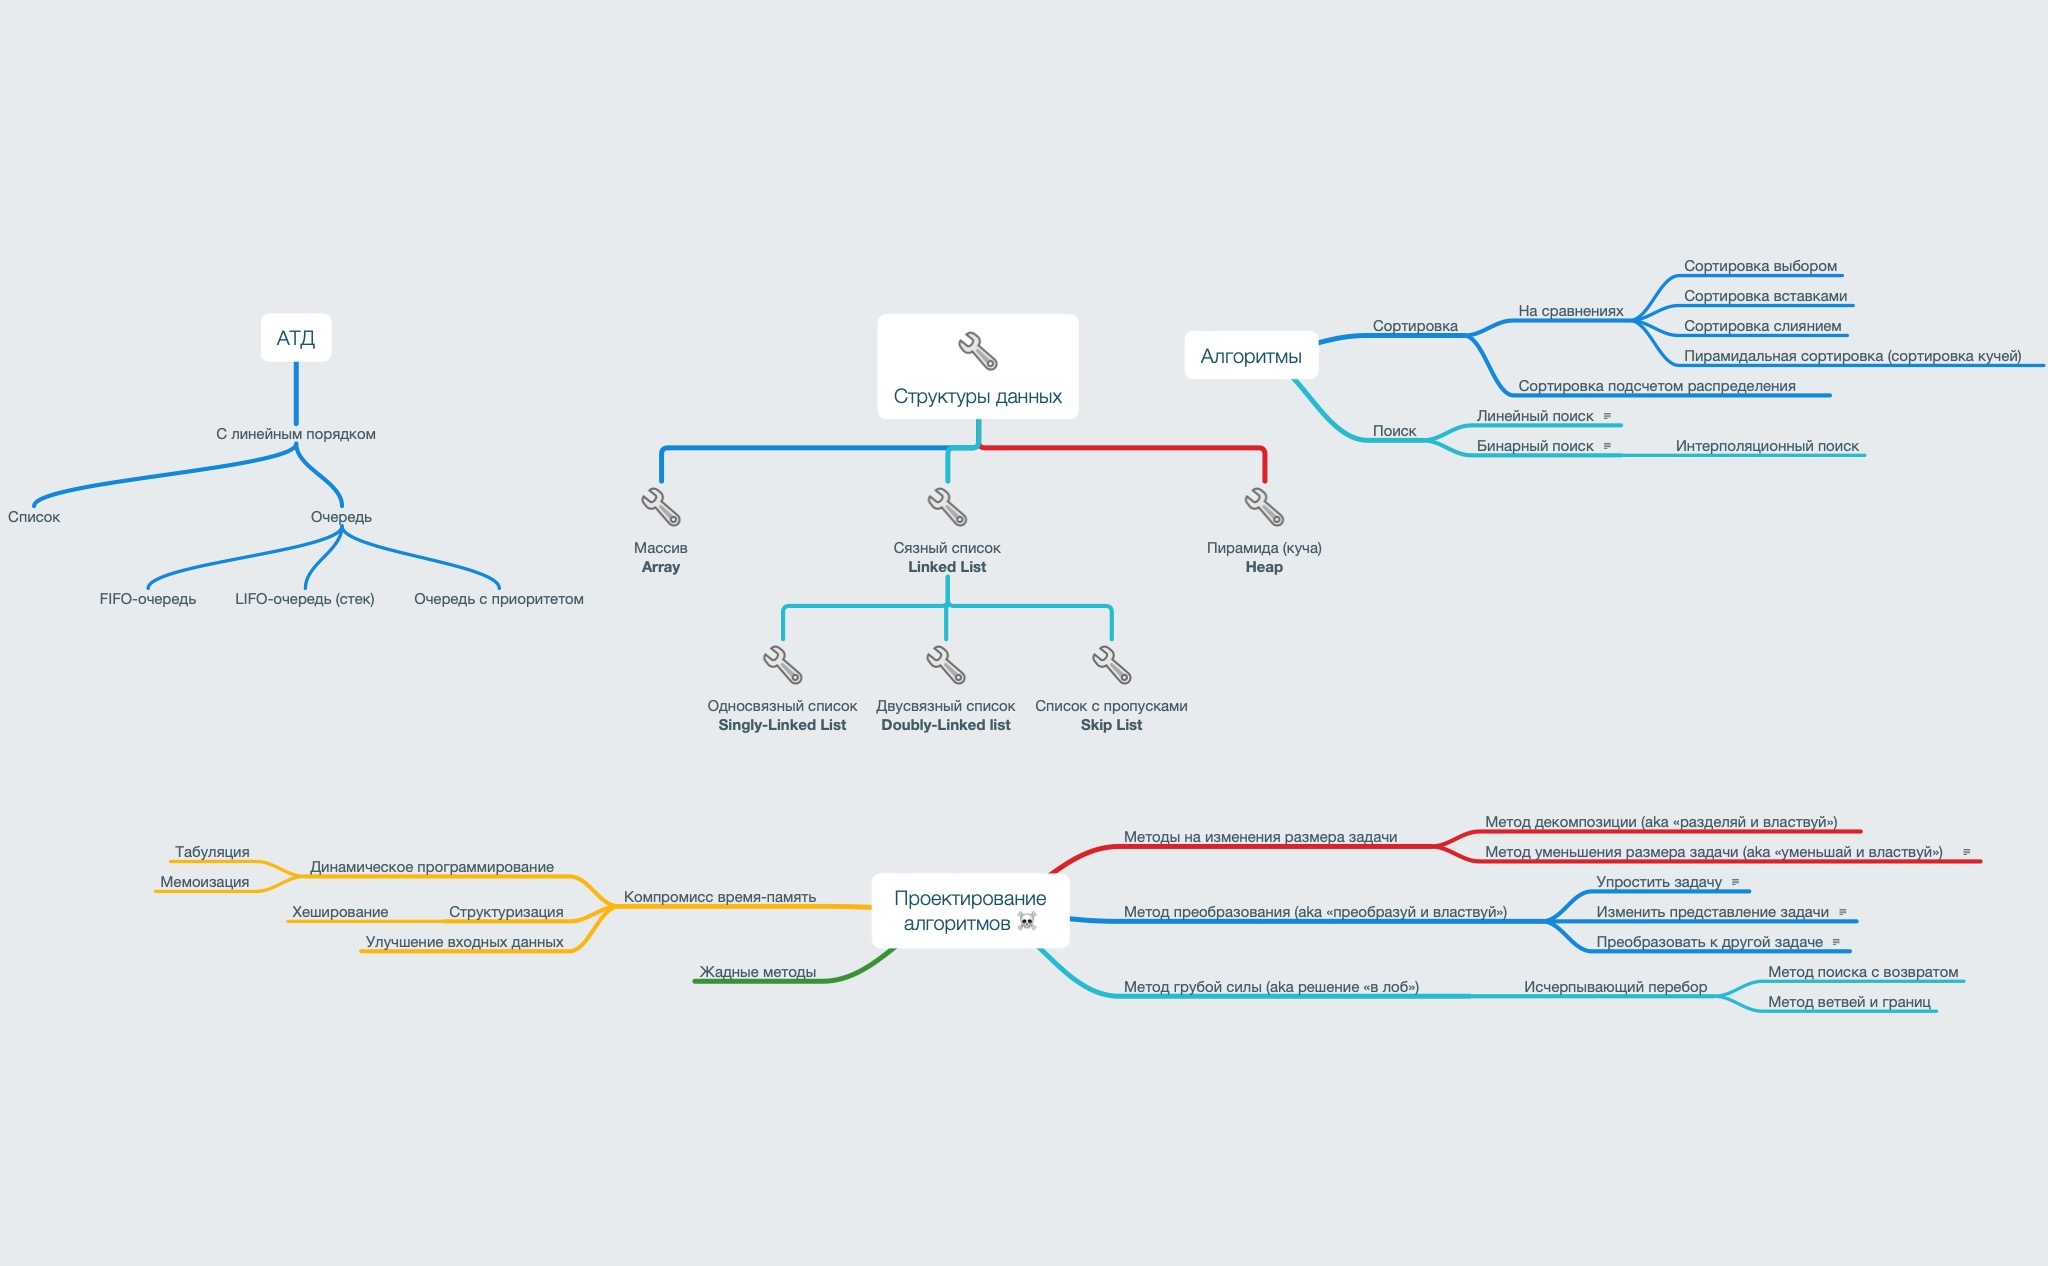
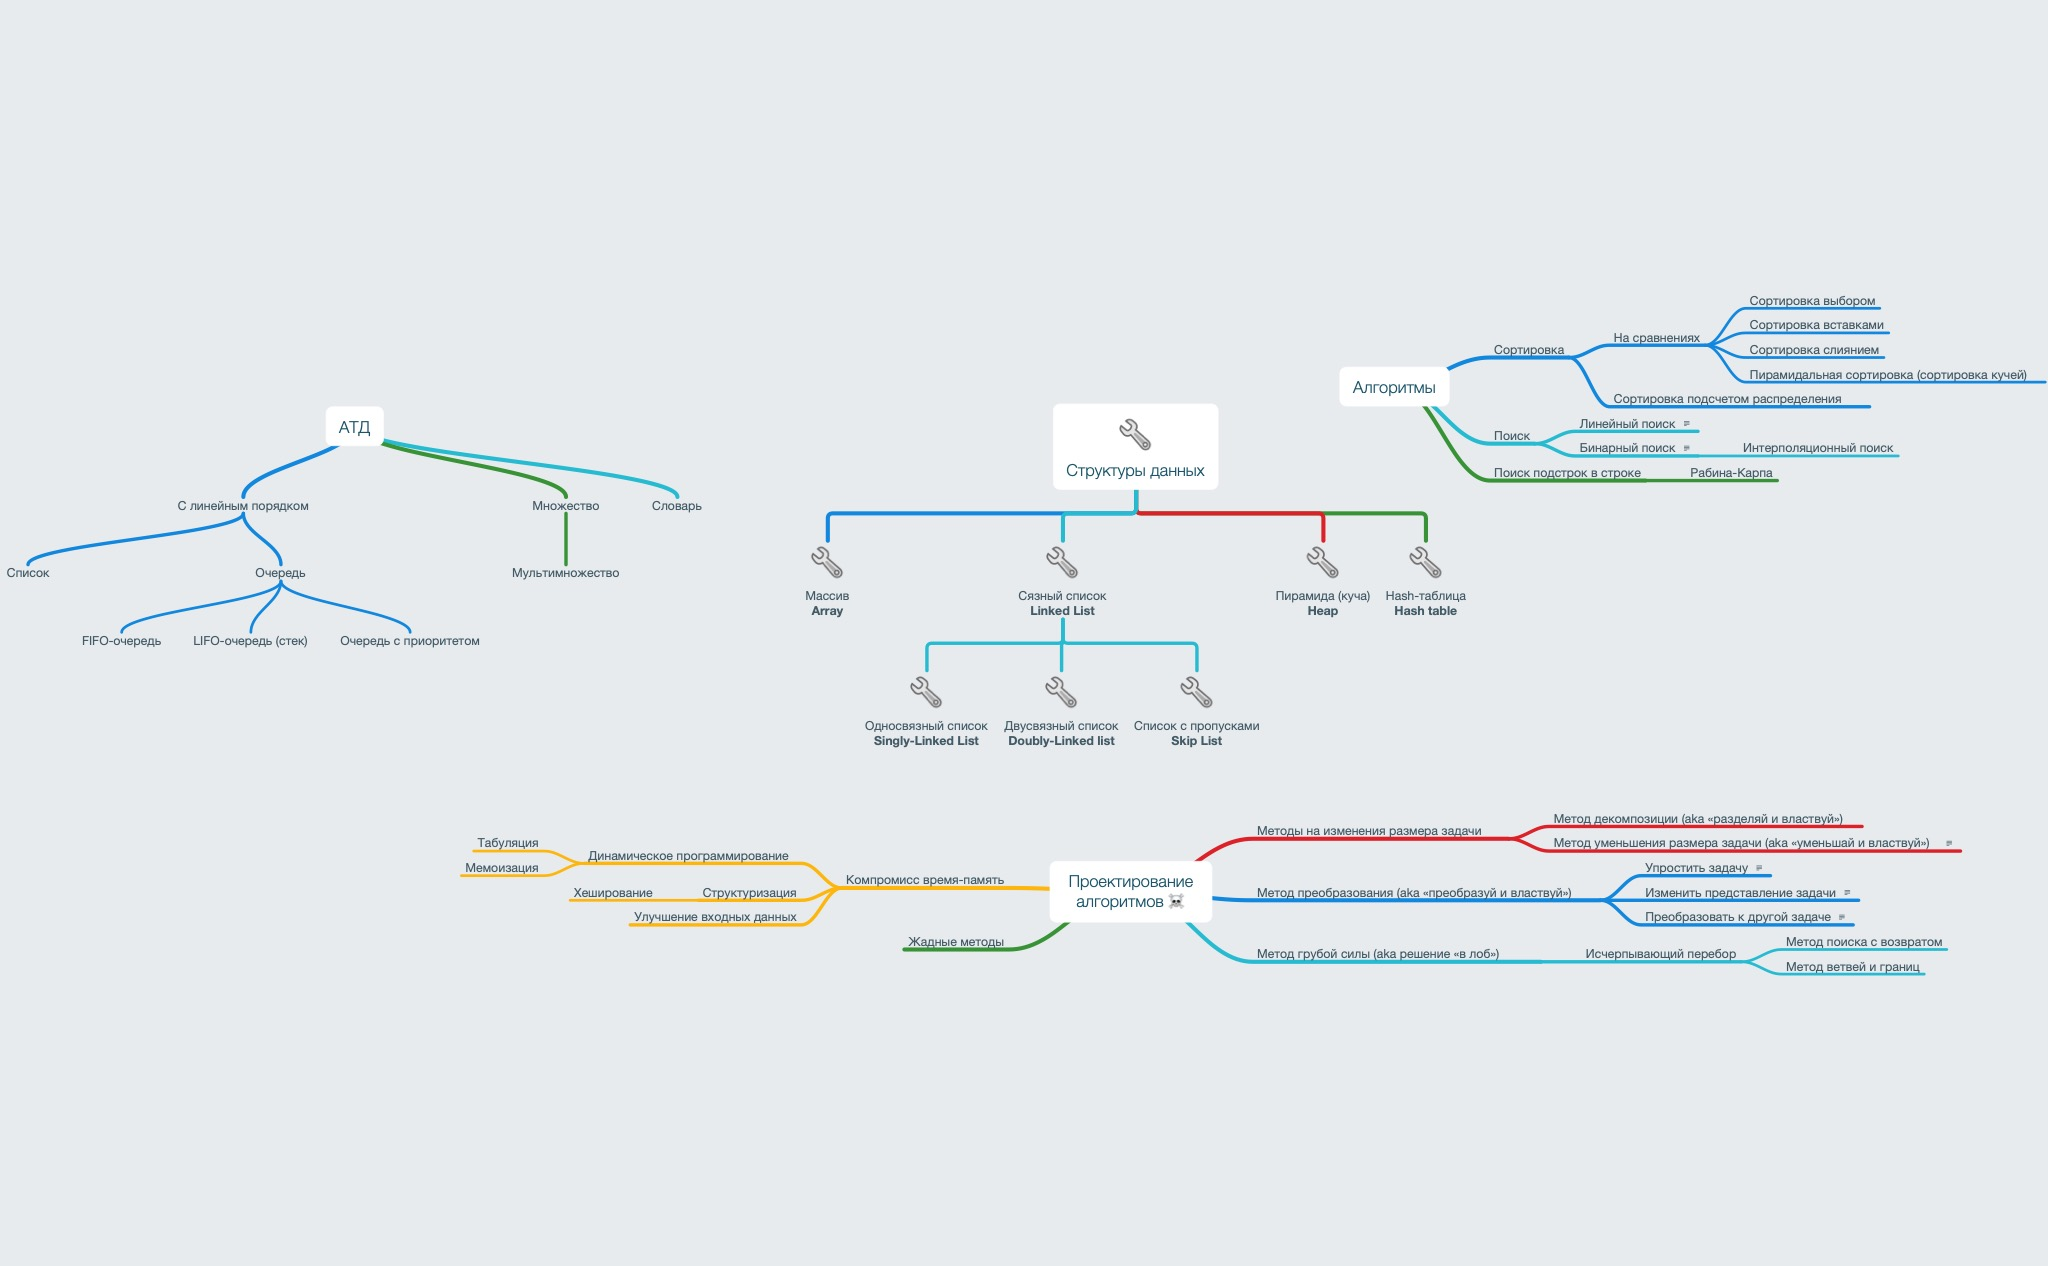
feat(README): add new lecture

diff --git a/README.md b/README.md
@@ -54,22 +54,26 @@
    - Парадигмы программирования.
    - Типизация.
    - Компиляторы и интерпретаторы.
-   
+
 6. [Бонус: ООП, функциональное программирование, TDD и чистый код](https://korikov.cc/?d=2019-informatika-06-bonus-oop-funkcionalnoe-programmirovanie-tdd-i-chistyi-kod)
-   - Объекто-ориентированное программирование, SOLID, паттерны.
+
+   - Объектно-ориентированное программирование, SOLID, паттерны.
    - Чистые функции, высшие функции.
    - Разработка через тестирование (TDD).
    - Рекомендации.
-   
+
 7. [Бонус: планирование в IT](https://korikov.cc/?d=2019-informatika-07-bonus-planirovanie-v-it)
+
    - Водопадная модель, Agile, Scrum, канбан-доска.
    - Максим Дорофеев и игры.
-   
-8. АТД: ассоциативные коллекции.
 
-   - Множество, мультимножество, ассоциативный массив.
-   - Хэширование. Разрешение коллизий. Хэш-таблица.
-   - *Дополнительно:*
+8. [АТД: словарь и множество](https://korikov.cc/?d=2019-informatika-08-atd-slovar-i-mnojestvo)
+
+   - АТД словарь и АТД множество, мультимножество.
+   - Хэш-таблица. Хэширование. Разрешение коллизий.
+   - Алгоритм Рабина-Карпа.
+   - Словарь и множество в Python.
+   - *Дополнительно: фильтр Блума.*
 
 9. АТД: дерево ☠
 
